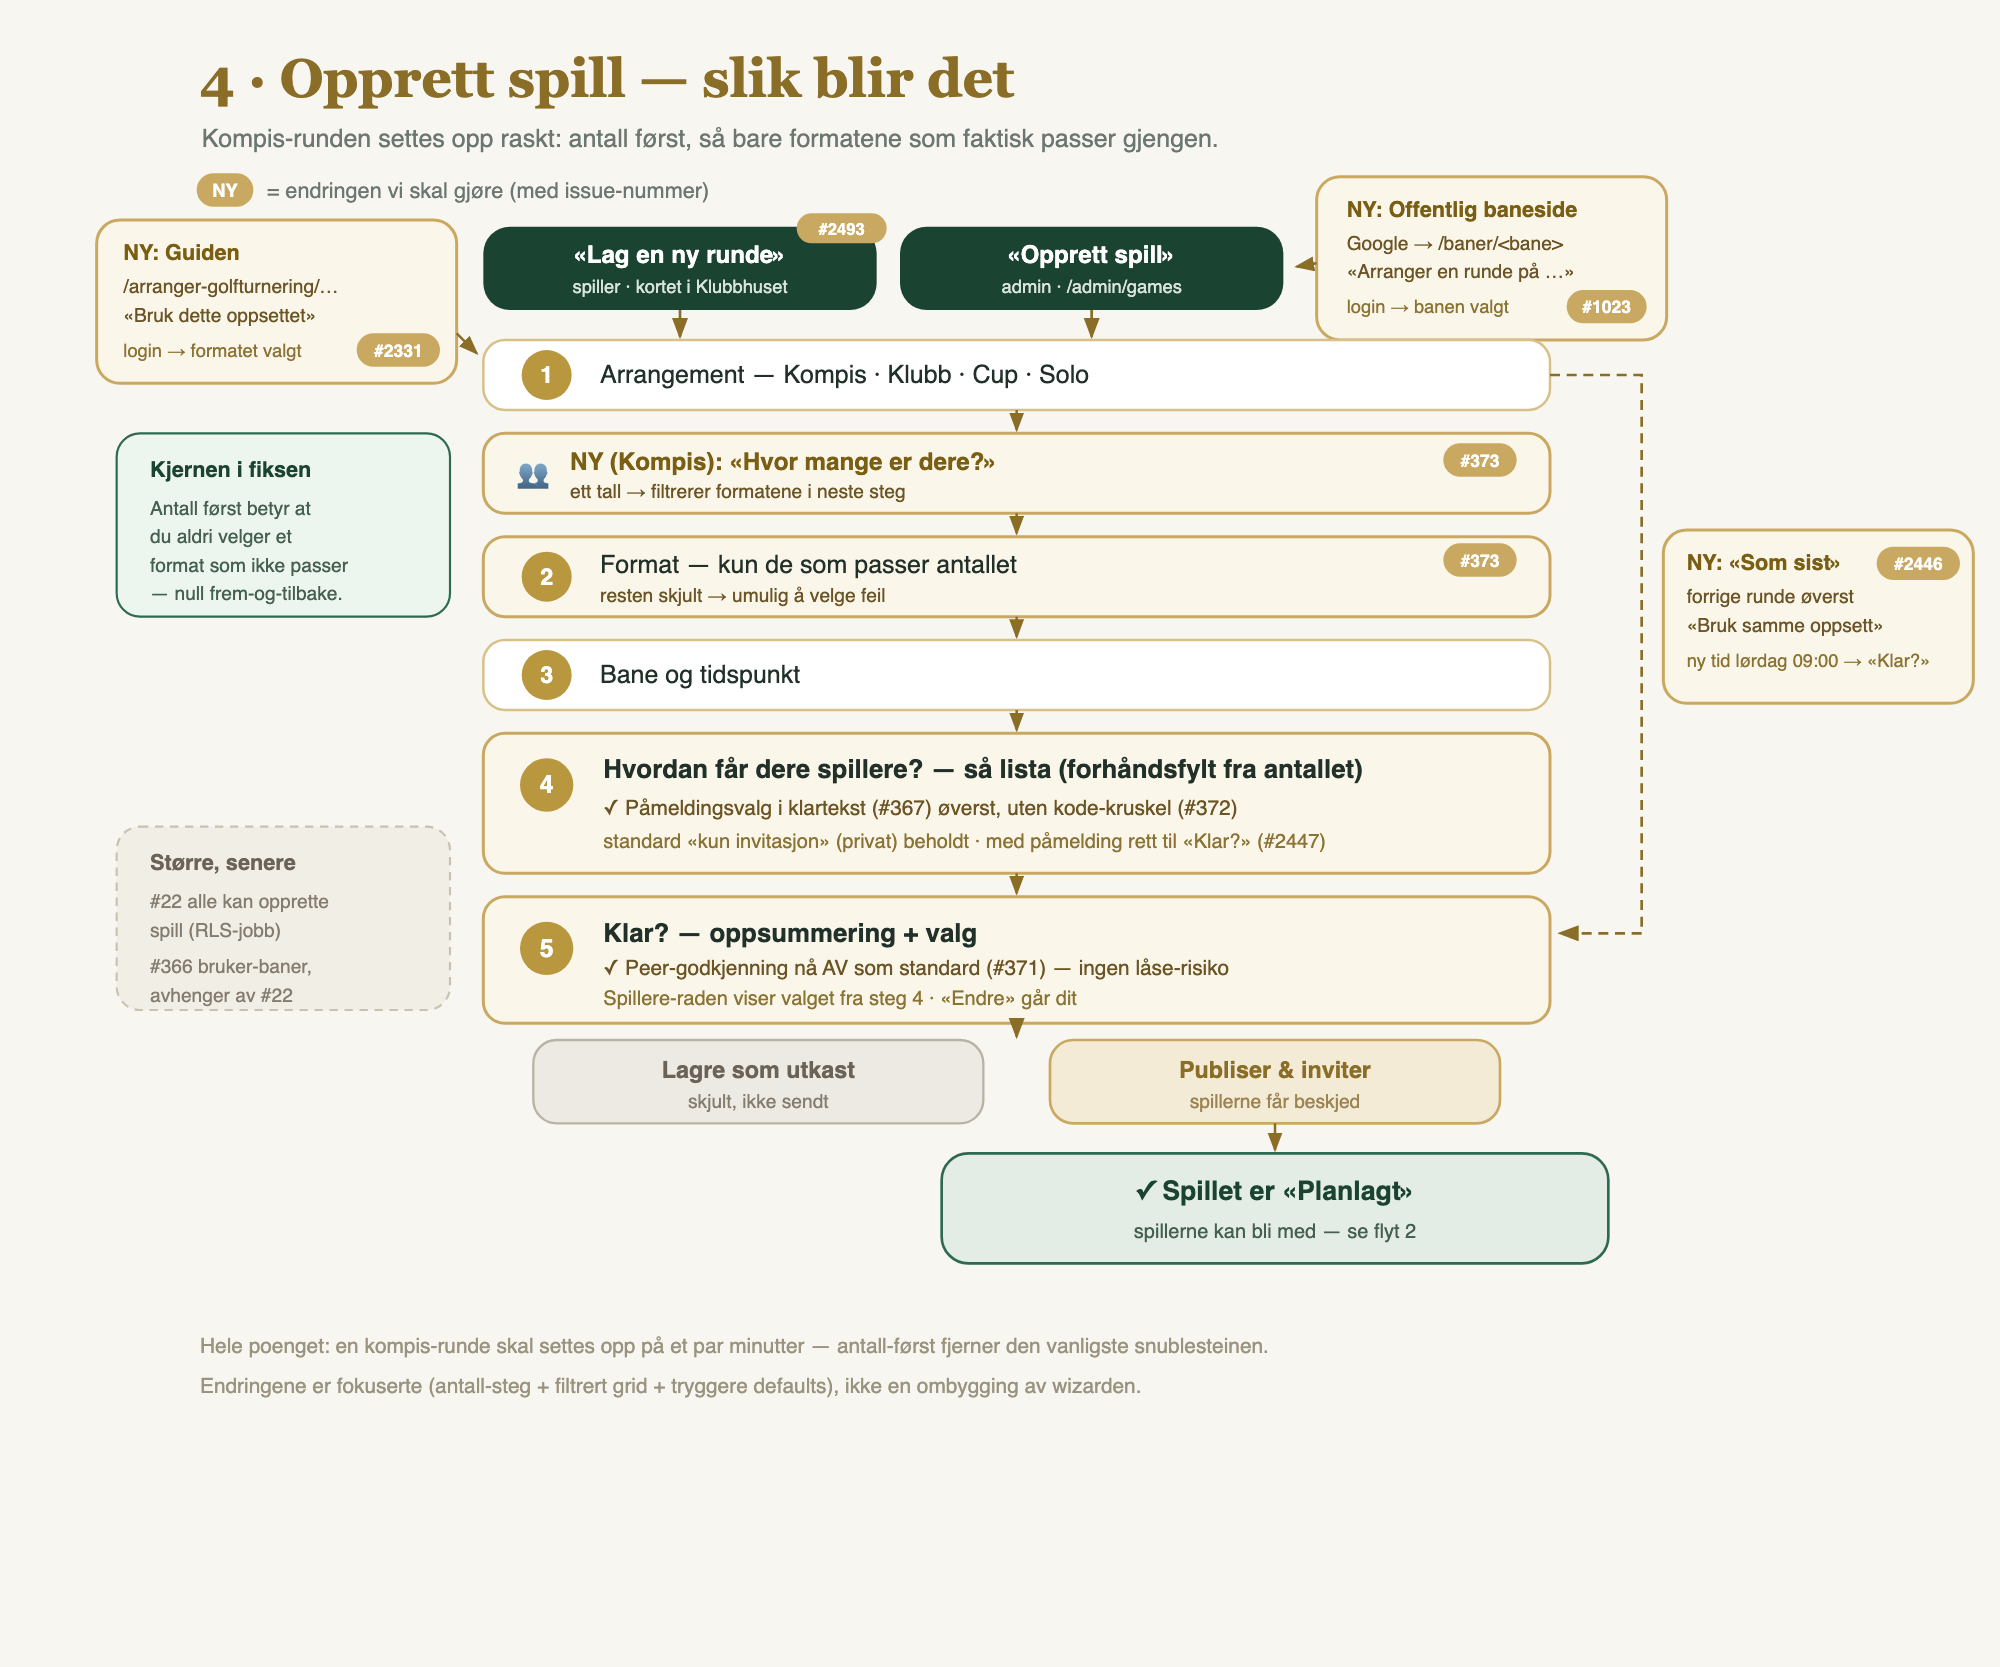
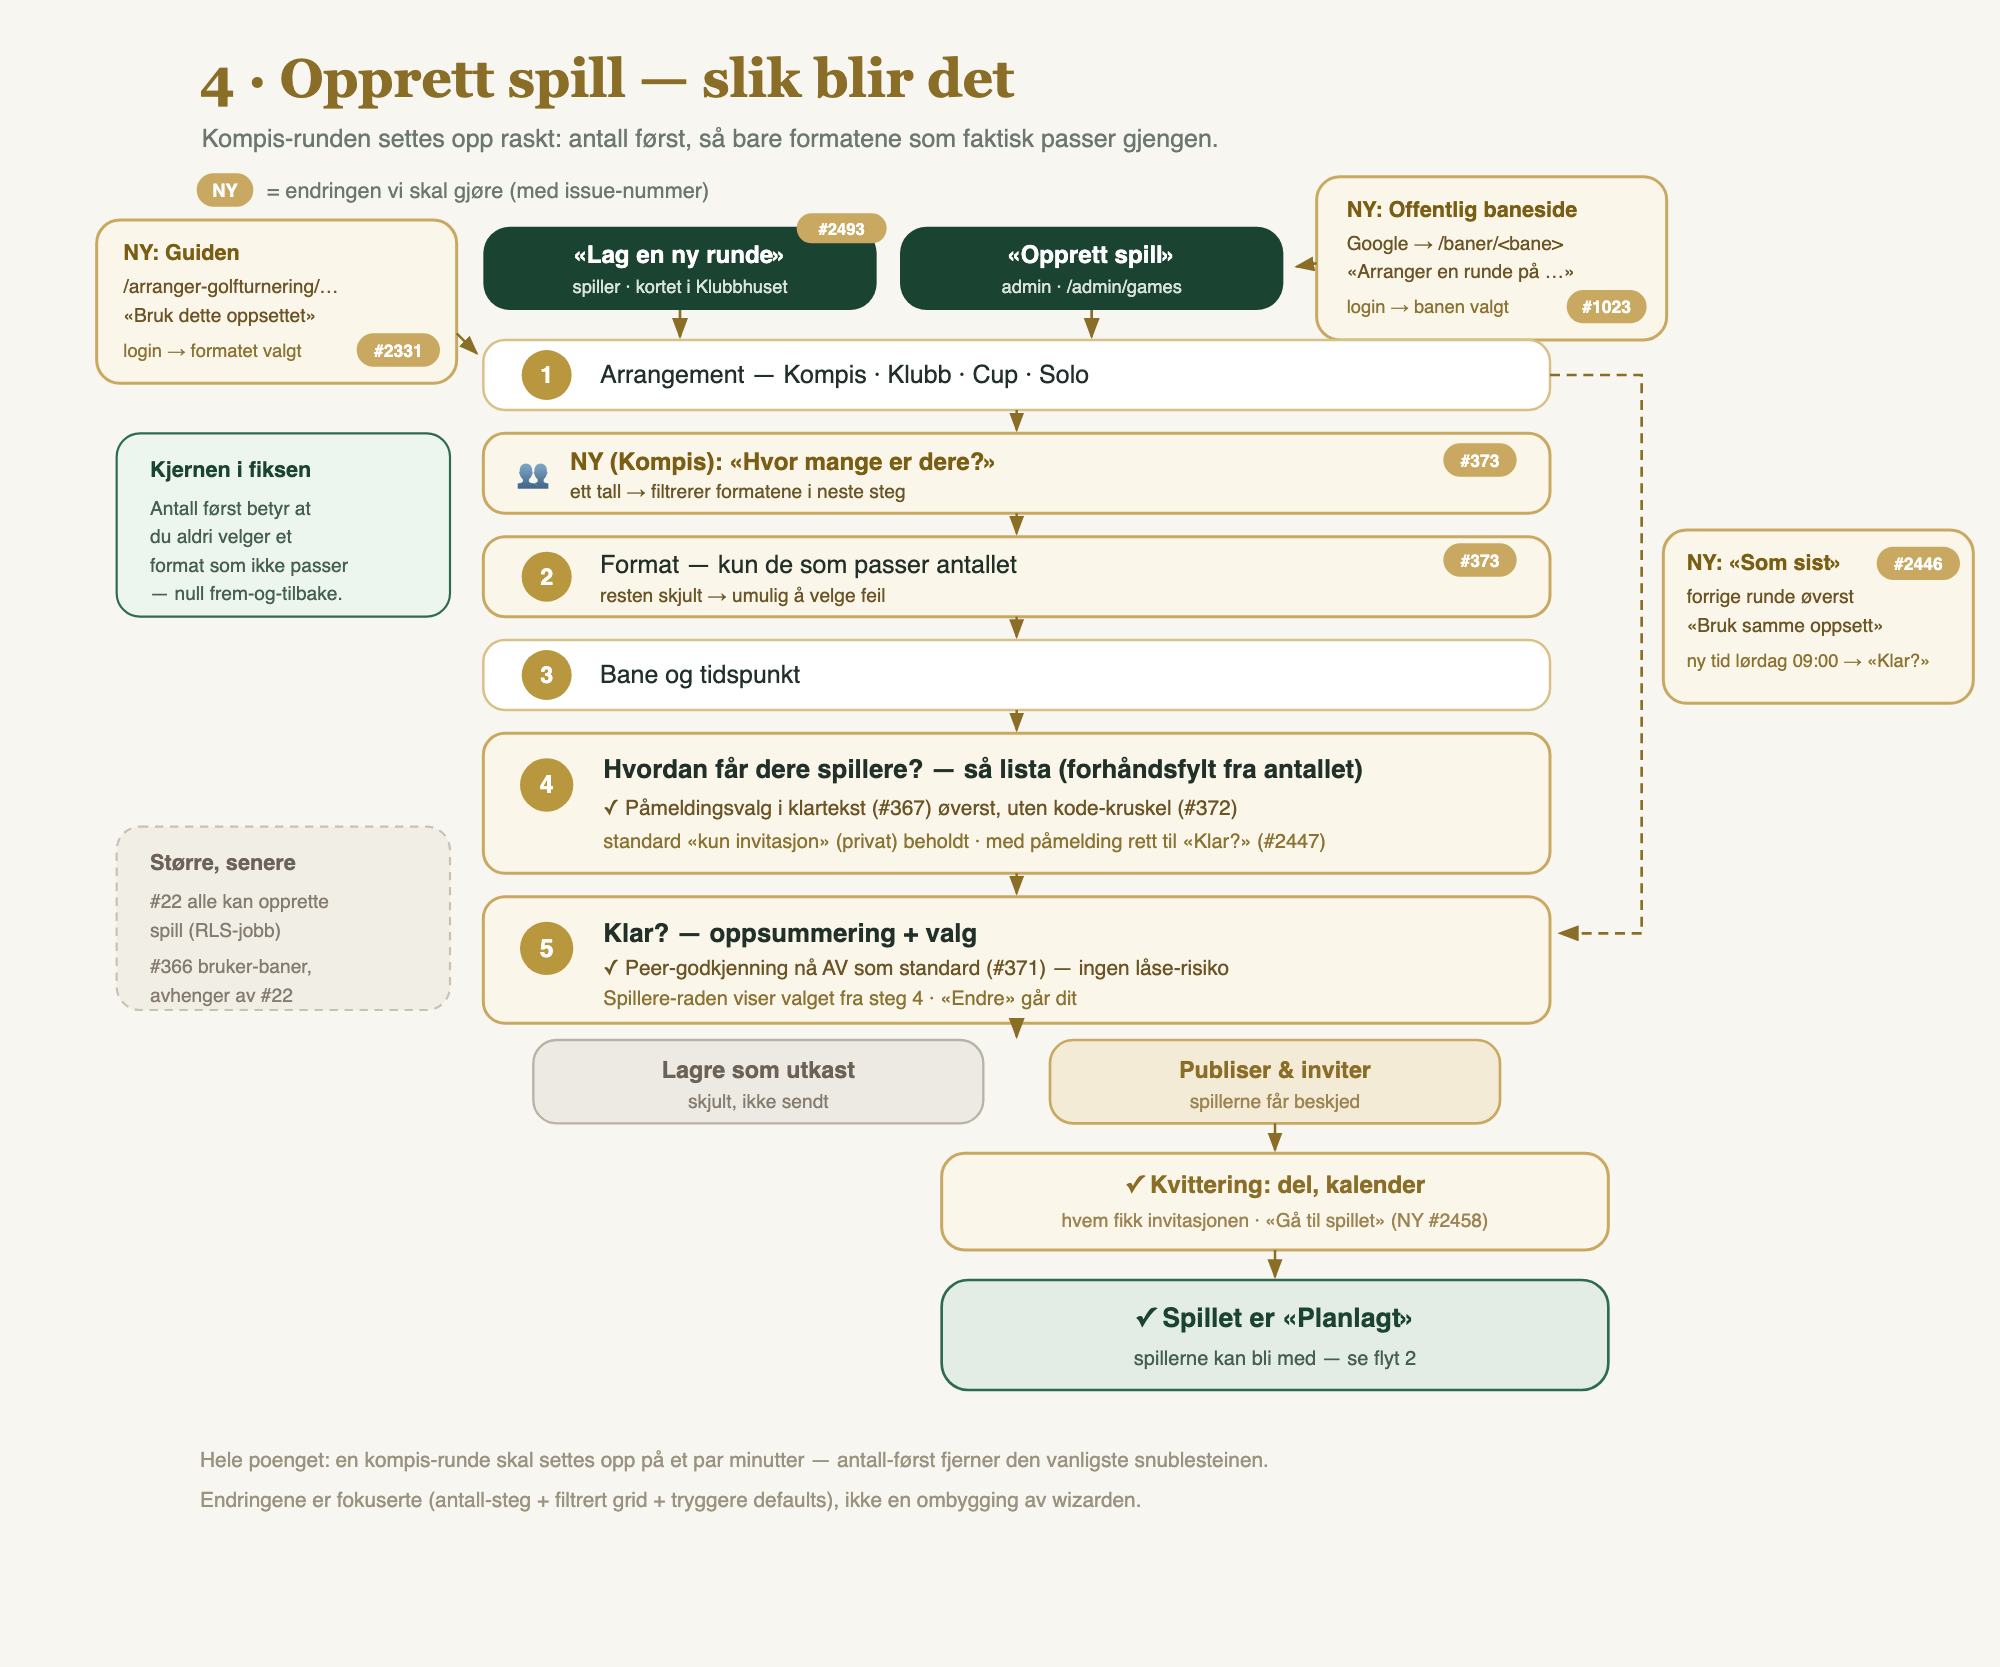
docs(flows): the receipt between «Publiser» and the planned game
Flow 4 (future) gets the box «✓ Kvittering: del, kalender» between «Publiser
& inviter» and «Spillet er «Planlagt»»; A1 in user-flows.md gets the step in
the diagram and a table row.

Refs #2458

diff --git a/docs/user-flows.md b/docs/user-flows.md
@@ -234,7 +234,9 @@ flowchart LR
   S2 --> S3["3 Bane og tidspunkt"]
   S3 --> S4["4 Spillere<br/>påmeldingsvalg + lista + lag/flight"]
   S4 --> S5["5 Klar?<br/>Utkast / Publiser"]
-  S5 --> G["/admin/games/[id]"]
+  S5 --> R["Kvittering<br/>Del / Kalender / Gå til spillet"]
+  R --> G["/admin/games/[id]<br/>eller /games/[id]"]
+  S5 -. "Utkast" .-> G
   S1 -. "intent = Cup" .-> CUP["CupSetup → tournaments<br/>→ /admin/cup/[id]"]
   S1 -. "Som sist" .-> S5
 ```
@@ -246,8 +248,9 @@ flowchart LR
 | 3 Bane og tidspunkt | `BasicsSection` | Bane + tee-boks (fra `getNewGameFormData`), tee-off (Oslo-tz), auto-navn. «Opprett ny bane» går til `/opprett-bane?next=…` med veien tilbake til steg 3. Der viser «Finnes banen alt?» opptil fem baner som ligner navnet du skriver (`similar_courses`, #2485). «Bruk denne», eller en bane du lagrer der, kommer tilbake valgt: når utkastet er hentet, velger veiviseren banen fra `?bane=` over utkastets og fjerner parameteren fra adressen (`useCourseFromUrl`). `banevalg=1` står igjen, så «Som sist» holder seg borte fra steg 1 også etter en reload (#2446). Format og spillere står. |
 | 4 Spillere | `PlayerSourceChoice` + `PlayerPickerGrid` + `PlayerTray`, så `TeamsAssignmentSection` | Øverst, under tittelen «Hvordan får dere spillere?», står påmeldingsvalget (#2447, #367): «Jeg velger dem nå» (standard, privat), «De ber om plass, jeg godkjenner» (med «Slipp venner direkte inn», #369) og «Åpen påmelding». Velges påmelding, er lista valgfri og «Neste: Klar?» går rett til steg 5, også i best ball med deg alene. Klubb-turneringen har ikke valget (medlemskap er invitasjonen, #643) og beholder tittelen «Hvem skal spille?». Under valget: vennene (eller klubbmedlemmene) som kort, du selv først og så sist spilt først (`orderPickerPlayers`, #2321). Brettet nederst teller mot målet («3 av 4 · én til»). Lagformater og singles matchplay fordeler lag, sider og flights på en egen skjerm («Neste: lagene»); solo-formatene har tee per spiller på velgeren. Gjest legges til fra «+ Gjest»; «✉ E-post» samler adresser som inviteres når spillet publiseres (`sendPublishInvites`). Steget kan stå tomt hvis påmelding er valgt øverst på steget, og i en klubb-turnering med individuell påmelding (#2433). |
 | 5 Klar? | `ReadyStep` | Et lite invitasjonskort med spillnavnet som felt midt i kortet, og en sjekkliste (Bane, Format, Tee-off, Spillere) med status og «Endre» som hopper til steget valget bor på (#2282). Spillere-raden sier hvordan spillerne kommer («Privat», «Du godkjenner påmeldinger», «Åpen påmelding»; ikke i en klubb-turnering), og «Endre» går til steg 4 der valget bor (#2447). Under lista: «Vis avanserte innstillinger». Brettet nederst: «Publiser og del invitasjonen» (`createAndPublishGame`, status `scheduled` + invitasjoner) eller «Lagre som utkast» (`createGameDraft`, status `draft`). Publisering varsler alle på lista én gang (`notifyRosterInvites`); en tom klubb-turnering varsler ingen. «Lagre som utkast» varsler ingen (#2445). En venn uten fullført profil stopper ikke publiseringen. Runden starter når profilen er på plass, og spillerraden på steg 5 sier «N venter på profil» (#2441). Er alle valgte spillere gjester, blir spillerraden rød og publiseringen stoppes alltid, uansett påmeldingsmåte; serveren avviser også (`guestOnlyRoster`, #2570). Redigering av en planlagt runde stoppes ikke. |
+| Kvittering | `app/[locale]/games/[id]/klar/page.tsx` (#2458) | «Publiser og del invitasjonen» lander her, fra ny runde og fra utkast, for admin og arrangør (`requireAdminOrCreator`). Redirecten erstatter veiviseren i historikken, så «Tilbake» fra spillet gir kvitteringen. Øverst står «✓ {navn} er klar» og hvem som har fått invitasjonen (`lib/games/publishReceipt.ts`: lista uten arrangøren, den som publiserte, gjester og trukne; opptil tre fornavn, så «og N til», e-postinvitasjoner sist). Under står det lille kortet fra «Klar?» uten felt, og så «Del i gruppechatten» (delingsarket, ellers kopiering), «Kopier lenke», «Legg i kalenderen» (`.ics`, også for arrangøren som ikke spiller) og «Gå til spillet» (admin `/admin/games/[id]`, andre `/games/[id]`). Delingsknappene står bare når `isPubliclyViewable` sier ja, så «Bare de jeg inviterer» viser ingen lenke. Siden skriver ingenting og kan lastes på nytt; et spill som ikke er planlagt, eller en cupkamp, sender videre til spillet. Cupkamper, utkast og en publisering der e-postinvitasjoner feilet, beholder sine redirecter. |
 
-Publiserer en arrangør som ikke er admin uten å stå på lista selv, lander hen på arrangørvisningen på `/games/[id]` i stedet for ikke-funnet-siden (#2202).
+Publiserer en arrangør som ikke er admin uten å stå på lista selv, lander hen på arrangørvisningen på `/games/[id]` i stedet for ikke-funnet-siden (#2202) når hen trykker «Gå til spillet» på kvitteringen.
 
 ### A2 — Administrer spill
 
